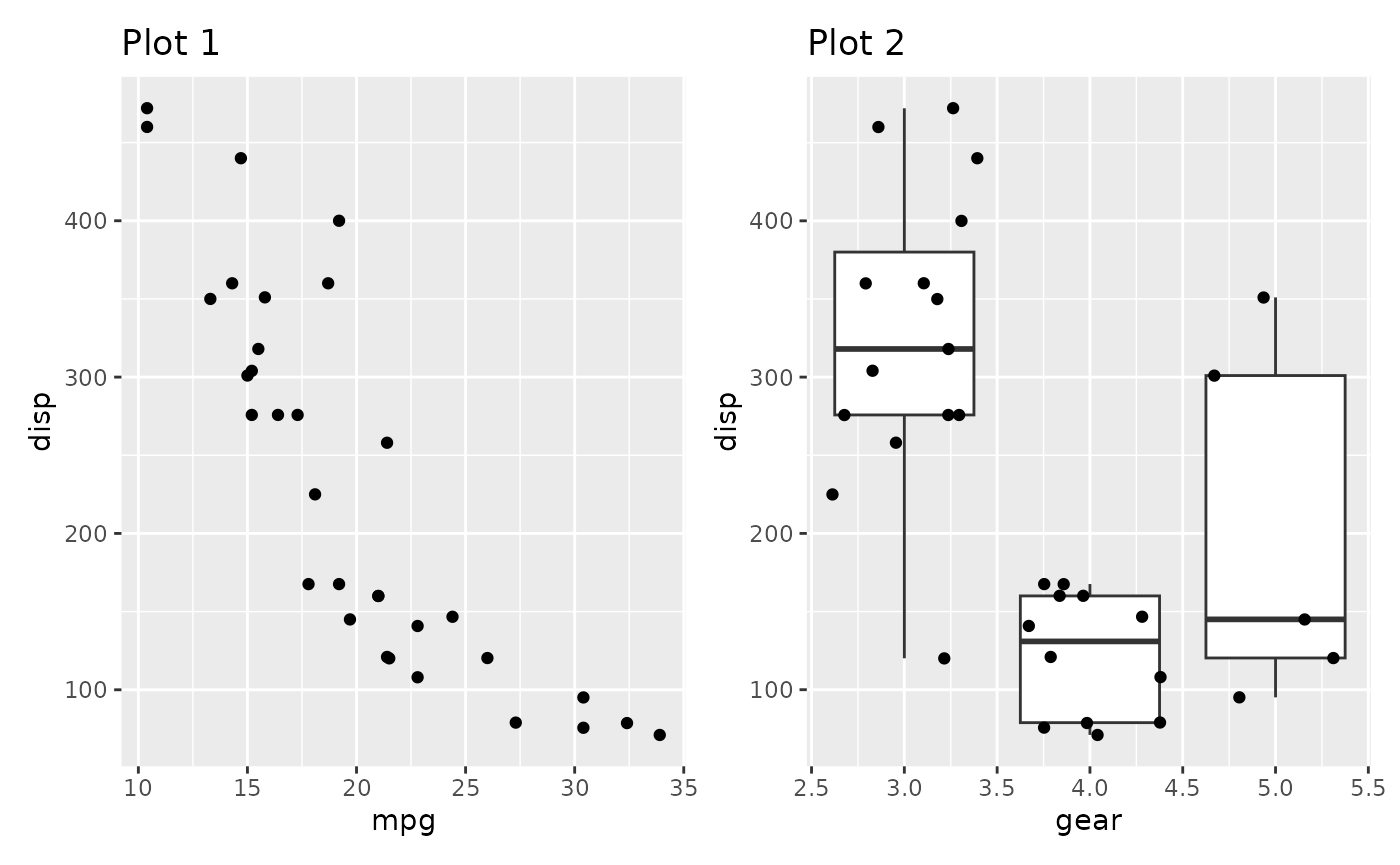
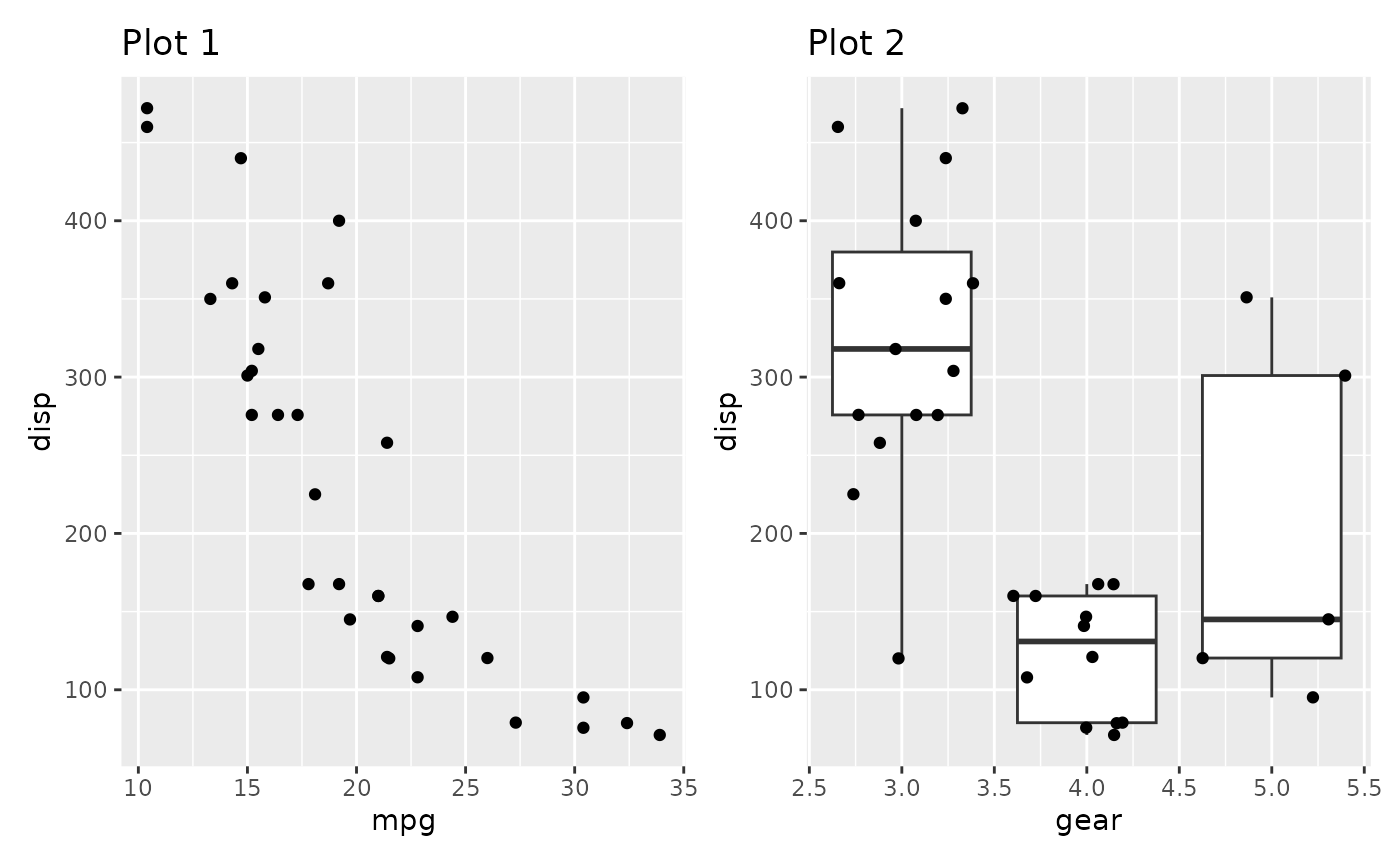
Deploying to gh-pages from @ thomasp85/patchwork@766ad9bec9bb9312ea425e2eb166cb2d776c9388 🚀

diff --git a/news/index.html b/news/index.html
@@ -94,6 +94,7 @@
 <h2 class="page-header" data-toc-text="development version" id="patchwork-development-version">patchwork (development version)<a class="anchor" aria-label="anchor" href="#patchwork-development-version"></a></h2>
 <ul><li>Axes and axis titles can now be collected using the <code><a href="../reference/plot_layout.html">plot_layout()</a></code> function. Collecting axes will remove duplicated axes in the x- or y-direction. Collecting axis titles will also remove duplicated titles in the x- or y-direction, but also merge duplicated titles in the other direction (<a href="https://github.com/thomasp85/patchwork/issues/150" class="external-link">#150</a>).</li>
 <li>Fix a bug that prevented faceted plots with axes on the right from being used (<a href="https://github.com/thomasp85/patchwork/issues/340" class="external-link">#340</a>)</li>
+<li>Added <code><a href="../reference/free.html">free()</a></code> function to mark a plot to not be aligned with the rest. The margin of the plot will still be aligned with the margins of the other plots but everything inside of that will by unaligned.</li>
 </ul></div>
     <div class="section level2">
 <h2 class="page-header" data-toc-text="1.1.3" id="patchwork-113">patchwork 1.1.3<small>2023-08-14</small><a class="anchor" aria-label="anchor" href="#patchwork-113"></a></h2>
